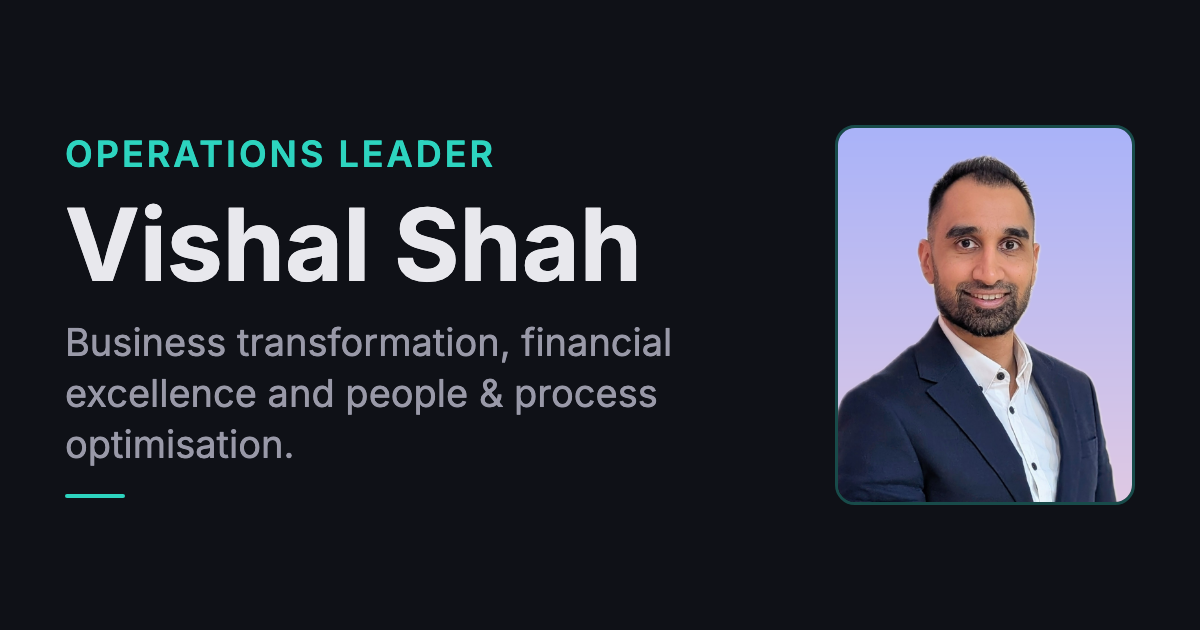
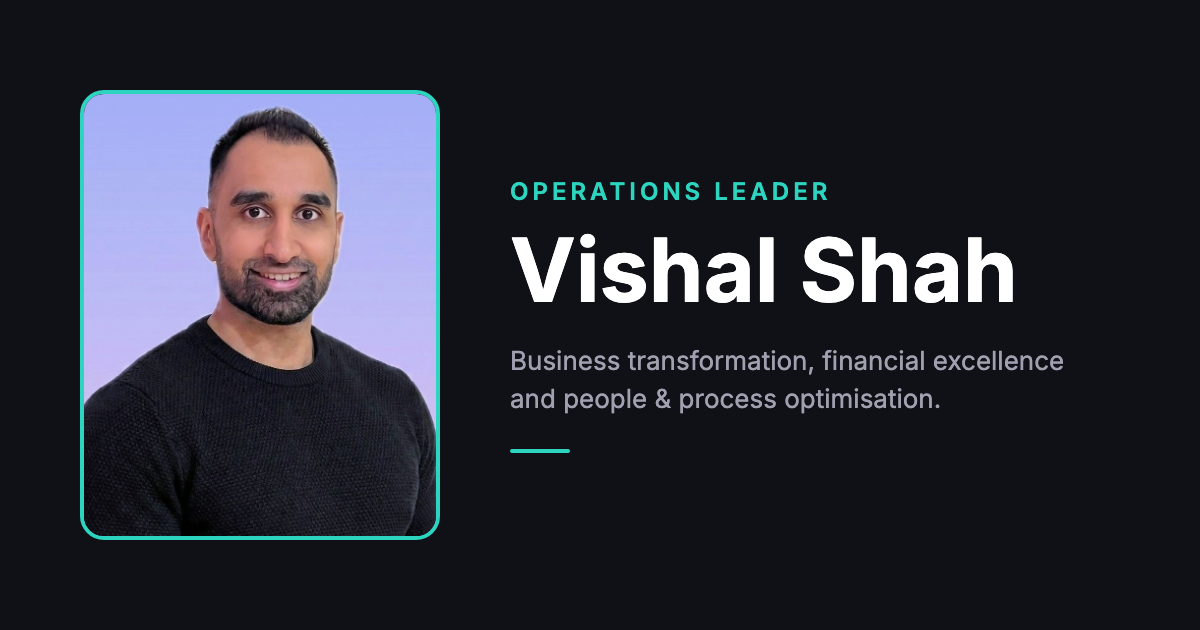
Update OG card images with new lilac-background headshot
Re-rendered both 1200x630 landscape and 600x600 square OG cards
using the new headshot. Card design (dark bg, teal accent, layout)
is unchanged.

diff --git a/og-card.html b/og-card.html
@@ -1,0 +1,79 @@
+<!DOCTYPE html>
+<html>
+<head>
+<style>
+  * { margin: 0; padding: 0; box-sizing: border-box; }
+  body {
+    width: 1200px;
+    height: 630px;
+    background: #0F1117;
+    font-family: 'Inter', -apple-system, sans-serif;
+    overflow: hidden;
+  }
+  .card {
+    width: 1200px;
+    height: 630px;
+    padding: 70px 80px;
+    display: flex;
+    align-items: center;
+    gap: 70px;
+    position: relative;
+  }
+  .headshot {
+    width: 360px;
+    height: 450px;
+    flex-shrink: 0;
+    border-radius: 24px;
+    object-fit: cover;
+    object-position: top center;
+    border: 4px solid #2DD4BF;
+  }
+  .text {
+    flex: 1;
+    display: flex;
+    flex-direction: column;
+    justify-content: center;
+  }
+  .label {
+    color: #2DD4BF;
+    font-size: 24px;
+    font-weight: 600;
+    letter-spacing: 4px;
+    text-transform: uppercase;
+    margin-bottom: 20px;
+  }
+  .name {
+    color: #FFFFFF;
+    font-size: 88px;
+    font-weight: 700;
+    line-height: 1.0;
+    margin-bottom: 28px;
+  }
+  .desc {
+    color: #A0A0B0;
+    font-size: 26px;
+    line-height: 1.45;
+    max-width: 600px;
+  }
+  .accent-line {
+    width: 60px;
+    height: 4px;
+    background: #2DD4BF;
+    border-radius: 2px;
+    margin-top: 32px;
+  }
+</style>
+<link href="https://fonts.googleapis.com/css2?family=Inter:wght@400;600;700&display=swap" rel="stylesheet">
+</head>
+<body>
+<div class="card">
+  <img src="headshot.jpg" class="headshot" alt="">
+  <div class="text">
+    <div class="label">Operations Leader</div>
+    <div class="name">Vishal Shah</div>
+    <div class="desc">Business transformation, financial excellence and people&nbsp;&amp;&nbsp;process optimisation.</div>
+    <div class="accent-line"></div>
+  </div>
+</div>
+</body>
+</html>

diff --git a/og-square.html b/og-square.html
@@ -1,0 +1,76 @@
+<!DOCTYPE html>
+<html>
+<head>
+<style>
+  * { margin: 0; padding: 0; box-sizing: border-box; }
+  body {
+    width: 600px;
+    height: 600px;
+    background: #0F1117;
+    font-family: 'Inter', -apple-system, sans-serif;
+    display: flex;
+    align-items: center;
+    justify-content: center;
+    overflow: hidden;
+  }
+  .card {
+    width: 600px;
+    height: 600px;
+    padding: 50px;
+    display: flex;
+    flex-direction: column;
+    justify-content: center;
+    align-items: center;
+    text-align: center;
+    position: relative;
+  }
+  .headshot {
+    width: 140px;
+    height: 170px;
+    margin-bottom: 24px;
+    border-radius: 16px;
+    object-fit: cover;
+    object-position: top center;
+    border: 3px solid #2DD4BF;
+  }
+  .label {
+    color: #2DD4BF;
+    font-size: 20px;
+    font-weight: 600;
+    letter-spacing: 3px;
+    text-transform: uppercase;
+    margin-bottom: 16px;
+  }
+  .name {
+    color: #FFFFFF;
+    font-size: 72px;
+    font-weight: 700;
+    line-height: 1.05;
+    margin-bottom: 24px;
+  }
+  .desc {
+    color: #A0A0B0;
+    font-size: 21px;
+    line-height: 1.5;
+    max-width: 500px;
+  }
+  .accent-line {
+    width: 50px;
+    height: 4px;
+    background: #2DD4BF;
+    border-radius: 2px;
+    margin-top: 30px;
+  }
+</style>
+<link href="https://fonts.googleapis.com/css2?family=Inter:wght@400;600;700&display=swap" rel="stylesheet">
+</head>
+<body>
+<div class="card">
+  <img src="headshot.jpg" class="headshot" alt="">
+  <div class="label">Operations Leader</div>
+  <div class="name">Vishal Shah</div>
+  <div class="desc">Business transformation, financial excellence and people&nbsp;&amp;&nbsp;process optimisation.</div>
+  <div class="accent-line"></div>
+</div>
+</body>
+</html>
